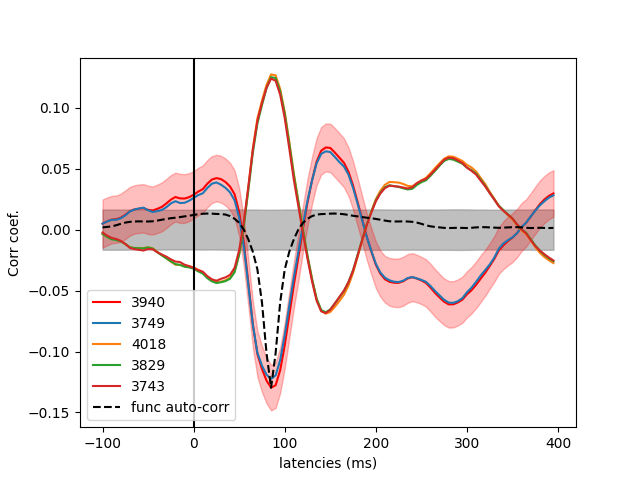
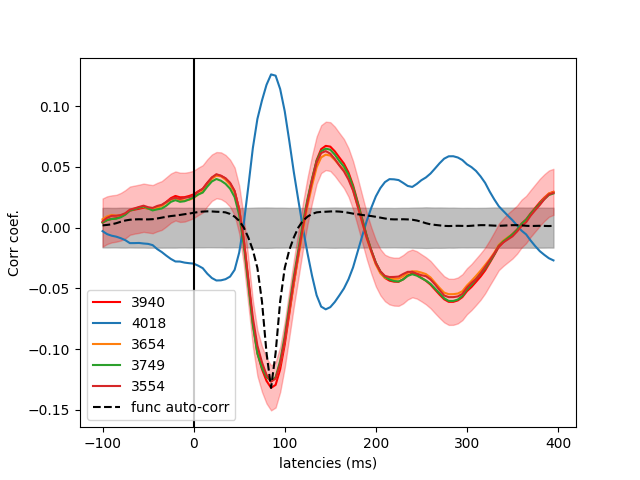
Update

diff --git a/kymata/preproc/data_cleansing.py b/kymata/preproc/data_cleansing.py
@@ -305,6 +305,7 @@ def estimate_noise_cov(data_root_dir: str,
                        n_runs: int,
                        cov_method: str,
                        duration_emp,
+                       reg_method,
                        ):
     for p in list_of_participants:
         if cov_method == 'grandave':
@@ -316,7 +317,7 @@ def estimate_noise_cov(data_root_dir: str,
                 cleaned_raws.append(raw_cropped)
             raw_combined = mne.concatenate_raws(raws=cleaned_raws, preload=True)
             raw_epoch = mne.make_fixed_length_epochs(raw_combined, duration=800, preload=True, reject_by_annotation=False)
-            cov = mne.compute_covariance(raw_epoch, tmin=0, tmax=None, return_estimators=True)
+            cov = mne.compute_covariance(raw_epoch, tmin=0, tmax=None, method=reg_method, return_estimators=True)
             mne.write_cov(data_root_dir + dataset_directory_name + '/intrim_preprocessing_files/3_evoked_sensor_data/covariance_grand_average/' + p + '-auto-cov-grandave.fif', cov)
             
         elif cov_method == 'emptyroom':
@@ -337,7 +338,7 @@ def estimate_noise_cov(data_root_dir: str,
                         st_duration=10,
                         verbose=True)
 
-            cov = mne.compute_raw_covariance(raw_fif_data_sss, tmin=0, tmax=duration_emp, return_estimators=True)
+            cov = mne.compute_raw_covariance(raw_fif_data_sss, tmin=0, tmax=duration_emp, method=reg_method, return_estimators=True)
             if duration_emp == None:
                 mne.write_cov(data_root_dir + dataset_directory_name + '/intrim_preprocessing_files/3_evoked_sensor_data/covariance_grand_average/' + p + '-auto-cov-emptyroom.fif', cov)
             else:
@@ -352,7 +353,7 @@ def estimate_noise_cov(data_root_dir: str,
                 cleaned_raws.append(raw_cropped)
             raw_combined = mne.concatenate_raws(raws=cleaned_raws, preload=True)
             raw_epoch = mne.make_fixed_length_epochs(raw_combined, duration=20, preload=True, reject_by_annotation=False)
-            cov = mne.compute_covariance(raw_epoch, tmin=0, tmax=None, return_estimators=True)
+            cov = mne.compute_covariance(raw_epoch, tmin=0, tmax=None, method=reg_method, return_estimators=True)
             mne.write_cov(data_root_dir + dataset_directory_name + '/intrim_preprocessing_files/3_evoked_sensor_data/covariance_grand_average/' + p + '-auto-cov-runstart.fif', cov)
 
         elif cov_method == 'fusion':
@@ -366,7 +367,7 @@ def estimate_noise_cov(data_root_dir: str,
                 cleaned_raws.append(raw_cropped)
             raw_combined = mne.concatenate_raws(raws=cleaned_raws, preload=True)
             raw_epoch = mne.make_fixed_length_epochs(raw_combined, duration=800, preload=True, reject_by_annotation=False)
-            cov_eeg = mne.compute_covariance(raw_epoch, tmin=0, tmax=None, return_estimators=True)
+            cov_eeg = mne.compute_covariance(raw_epoch, tmin=0, tmax=None, method=reg_method, return_estimators=True)
             del cleaned_raws, raw_combined, raw_epoch
 
             # Now calcualte the covariance for MEG using emptyroom
@@ -385,7 +386,7 @@ def estimate_noise_cov(data_root_dir: str,
                         st_duration=10,
                         verbose=True)
 
-            cov_meg = mne.compute_raw_covariance(raw_fif_data_sss, tmin=0, tmax=None, return_estimators=True)
+            cov_meg = mne.compute_raw_covariance(raw_fif_data_sss, tmin=0, tmax=None, method=reg_method, return_estimators=True)
             del raw, emptyroom_raw, raw_fif_data_sss
 
             # Now combine the two covariance matrices

diff --git a/invokers/run_gridsearch.py b/invokers/run_gridsearch.py
@@ -60,7 +60,7 @@ def main():
 
     # emeg_paths = [Path(emeg_dir, p + r) for p in participants[:2] for r in reps[-1:]]
 
-    inverse_operator = Path(args.base_dir, args.inverse_operator, f"{participants[0]}_ico5-3L-loose02-cps-nodepth-megonly-emptyroom30.fif")
+    inverse_operator = Path(args.base_dir, args.inverse_operator, f"{participants[0]}_ico5-3L-loose02-cps-nodepth-megonly-emptyroom3.fif")
 
     # Load data
     emeg, ch_names = load_emeg_pack(emeg_paths,

diff --git a/invokers/invoker_estimate_noise_cov_matrix.py b/invokers/invoker_estimate_noise_cov_matrix.py
@@ -26,6 +26,7 @@ def main():
                        n_runs = config['number_of_runs'],
                        cov_method = config['cov_method'],
                        duration_emp = config['duration'],
+                       reg_method = config['reg_method']
                         )
 
 if __name__ == '__main__':
